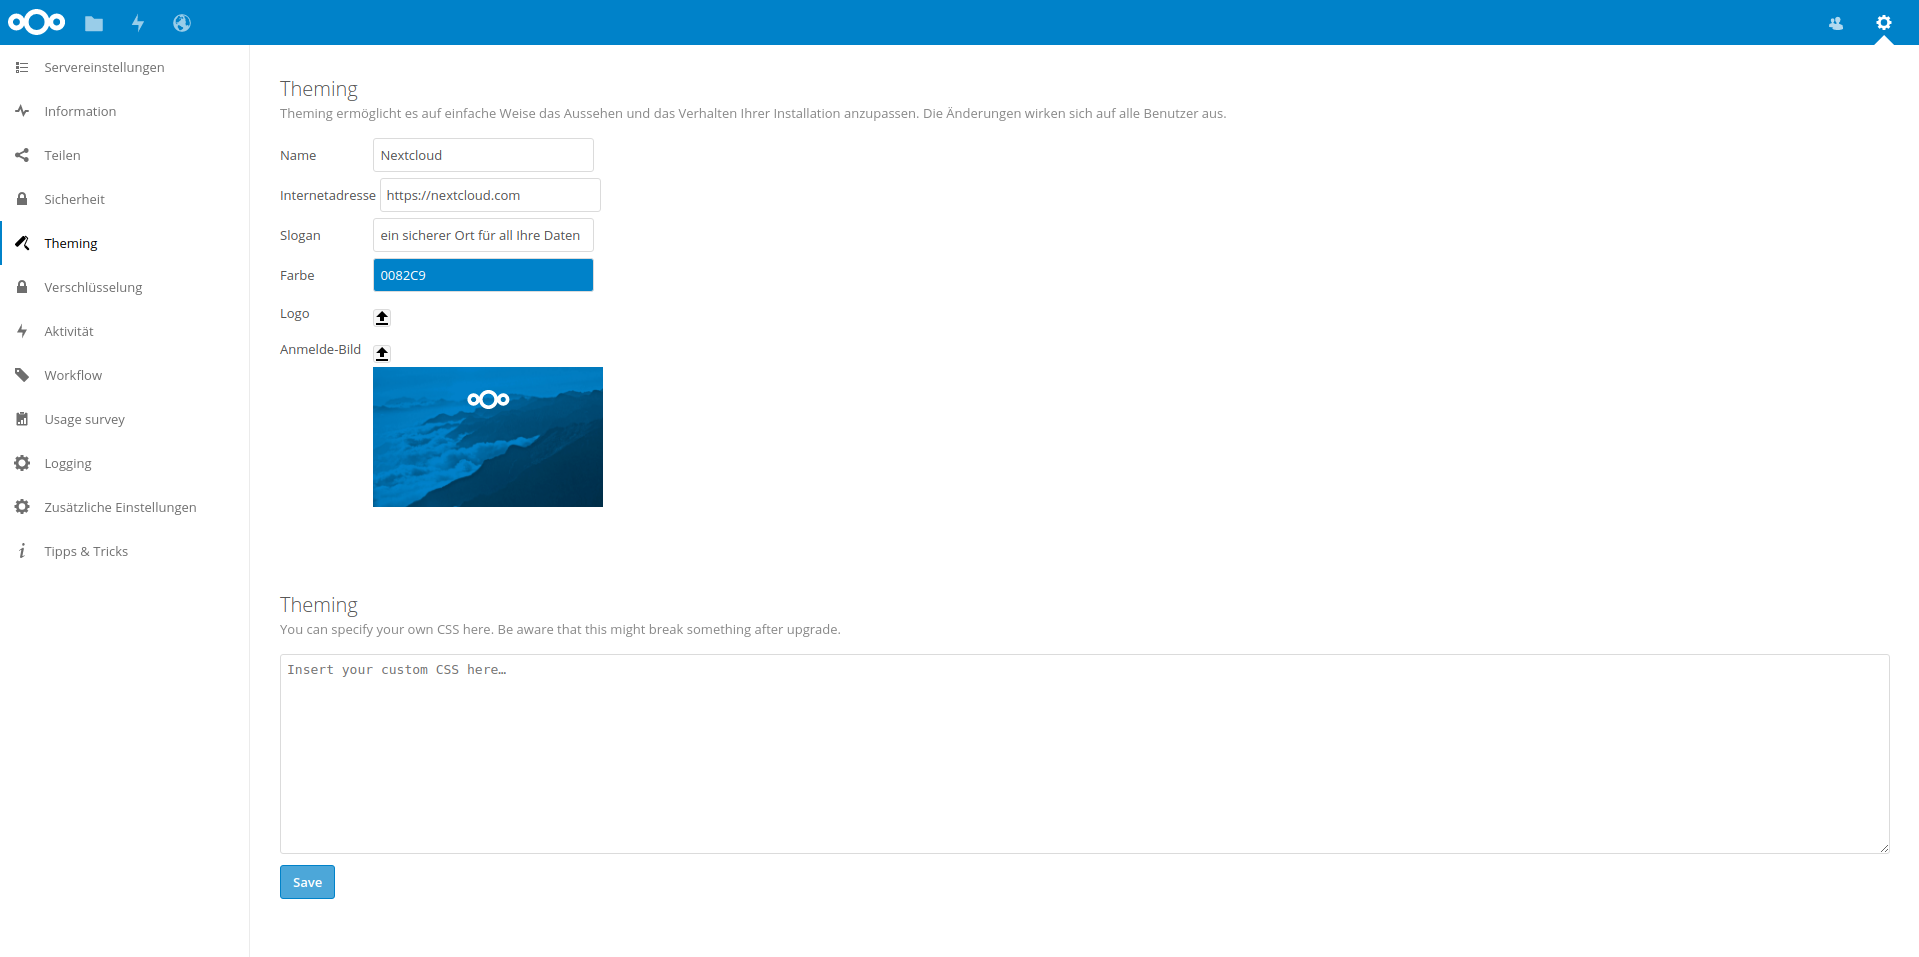
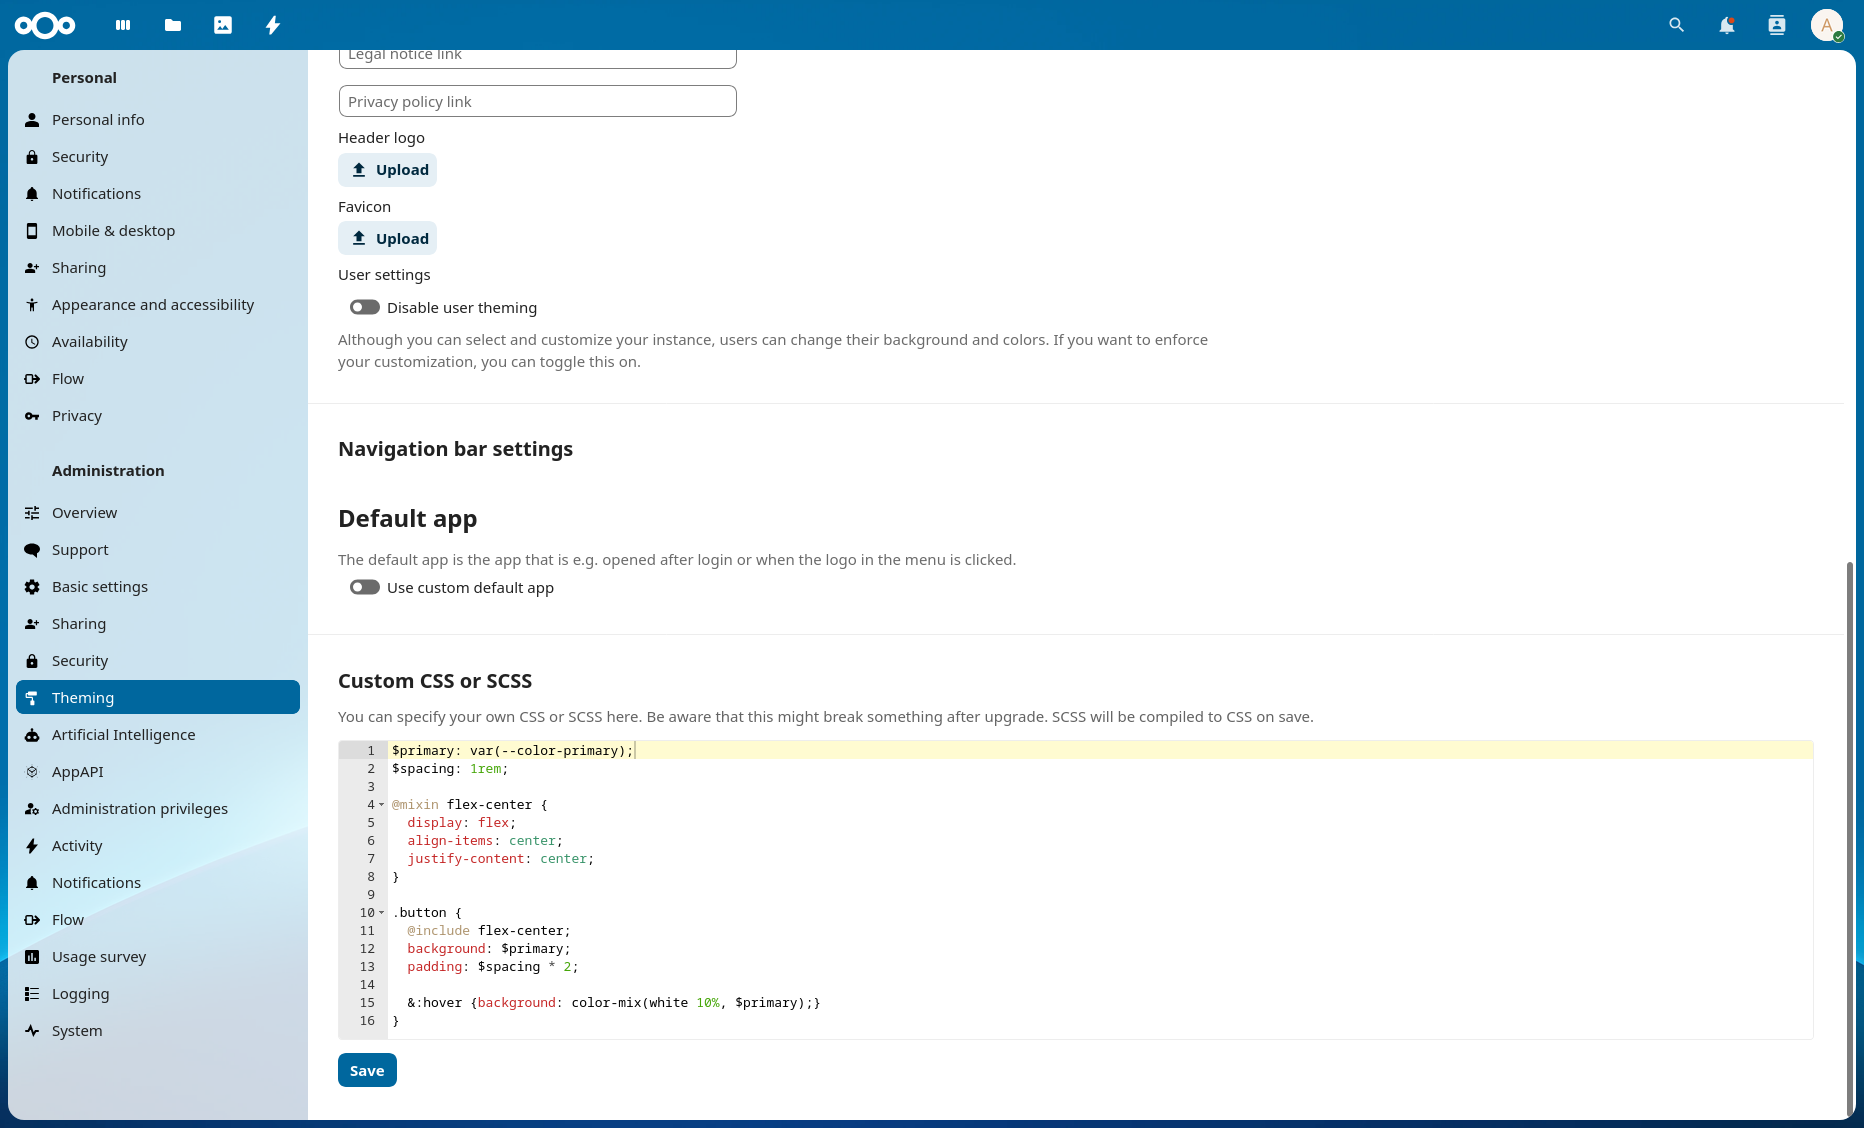
chore: update README and screenshot, remove leftover dead code

Changed region(s): [[0.0, 0.0, 1.0, 1.0]]

diff --git a/css/settings-admin.css b/css/settings-admin.css
@@ -1,11 +1,3 @@
-/*
-#theming-customcss textarea {
-	width:100%;
-	height:200px;
-	font-family: monospace;
-}
-*/
-
 #theming-customcss-editor {
 	width: 100%;
 	height: 300px;

diff --git a/templates/settings-admin.php b/templates/settings-admin.php
@@ -24,7 +24,6 @@ script('theming_customcss', 'vendor/sass');
 script('theming_customcss', 'vendor/ace/ace');
 script('theming_customcss', 'vendor/ace/mode-css');
 script('theming_customcss', 'vendor/ace/mode-scss');
-script('theming_customcss', 'vendor/ace/theme-textmate');
 script('theming_customcss', 'settings-admin');
 style('theming_customcss', 'settings-admin');
 ?>
@@ -34,7 +33,6 @@ style('theming_customcss', 'settings-admin');
 		<div id="theming-customcss_settings_msg" class="msg success inlineblock" style="display: none;">Saved</div>
 	<div>
 		<div id="theming-customcss-editor"><?php p($_['customcss']) ?></div>
-		<textarea id="theming-customcss-input" style="display:none;"></textarea>
 		<button class="primary"><?php p($l->t('Save')); ?></button>
 	</div>
 </div>

diff --git a/README.md b/README.md
@@ -2,15 +2,36 @@
 
 Allow admins to add custom CSS or SCSS to their Nextcloud instance from inside the Theming settings.
 
-![](https://github.com/juliushaertl/theming_customcss/raw/master/screenshot.png)
+<div style="display: flex;">
+<div style="height:200px; margin-bottom: 200px;">
+
+![](./screenshot.png)
+
+</div>
+<div style="height:200px; margin-bottom: 200px;">
+
+![](./screenshot-dark.png)
+    
+</div>
+</div>
+
+## CSS and SCSS support
+
+The admin settings field accepts both plain CSS and SCSS. SCSS is compiled to CSS
+in your browser (via sass.js) when you save; the compiled CSS is what's actually
+loaded on every page, while your raw SCSS source is kept so the editor can be
+prefilled with it next time you open the settings.
+
+The input is a syntax-highlighted code editor (Ace), with light/dark themes that
+follow your nextcloud's and system's color scheme.
 
 ## Use theming color values
 
-Admin can use CSS custom properties to make use of the variables that are available from the [default.css variables file](https://github.com/nextcloud/server/blob/master/apps/theming/css/default.css) file:
+Admins can use CSS custom properties to make use of the variables that are available from the [default.css variables file](https://github.com/nextcloud/server/blob/master/apps/theming/css/default.css):
 
 Example:
 
-```
+```css
 #element {
   color: var(--color-primary);
 }
@@ -18,39 +39,32 @@ Example:
 
 ## *How can I recover if my customized CSS or SCSS code has broken the user interface?*
 
-The CSS configuration is stored in the app config database table, but you can use the `occ config:app:*` commands to obtain, modify or reset it as well. e.g.
+The CSS/SCSS configuration is stored in the app config database table, and you can use the `occ config:app:*` commands to obtain, modify, or reset it:
 
-```
+```bash
 occ config:app:get theming_customcss customcss
-occ config:app:set theming_customcss customcss --value "body { background-color: red; }"
+occ config:app:get theming_customcss customscss
 occ config:app:delete theming_customcss customcss
+occ config:app:delete theming_customcss customscss
 ```
+
 ## Usage via occ command
 
-_Only applies for custom CSS, not SCSS!_
+_Only applies to compiled CSS, not SCSS — the occ commands don't run the SCSS compiler._
 
-Examples:
-
-```
-occ config:app:get theming_customcss customcss
+```bash
 occ config:app:set theming_customcss customcss --value "body { background-color: red; }"
-occ config:app:delete theming_customcss customcss
 ```
 
-Note:
+Note: if your CSS contains single or double quotes, make sure they're properly escaped so the shell doesn't break the command:
 
-- If your CSS contains single or double quotes, make sure they are properly escaped so the shell does not break the command.
-
-```
+```bash
 occ config:app:set theming_customcss customcss --value '.app-navigation-personal li[data-section-id="workflow"] { display:none } '
 ```
-
 
 ---
 
 ## Third-party code
 
-- `js/vendor/sass.js`, `js/vendor/sass.worker.js` — sass.js by Rodney Rehm,
-  MIT License. See js/vendor/LICENSE-sass.js.txt.
-- `js/vendor/ace/` — Ace editor by Ajax.org, BSD-3-Clause License.
-  See js/vendor/ace/LICENSE.
+- `js/vendor/sass.js`, `js/vendor/sass.worker.js` — sass.js by Rodney Rehm, MIT License. See `js/vendor/VENDOR-sass.js.txt`.
+- `js/vendor/ace/` — Ace editor by Ajax.org, BSD-3-Clause License. See `js/vendor/ace/LICENSE`.
